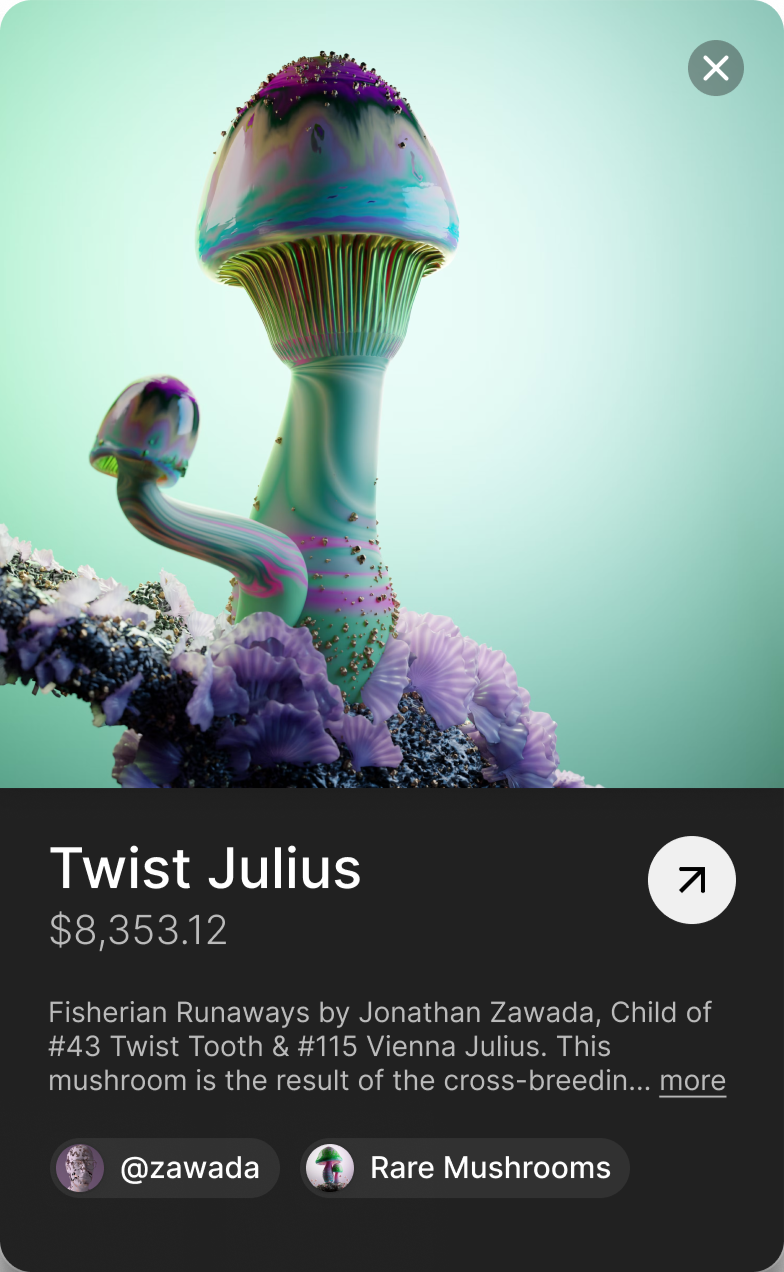
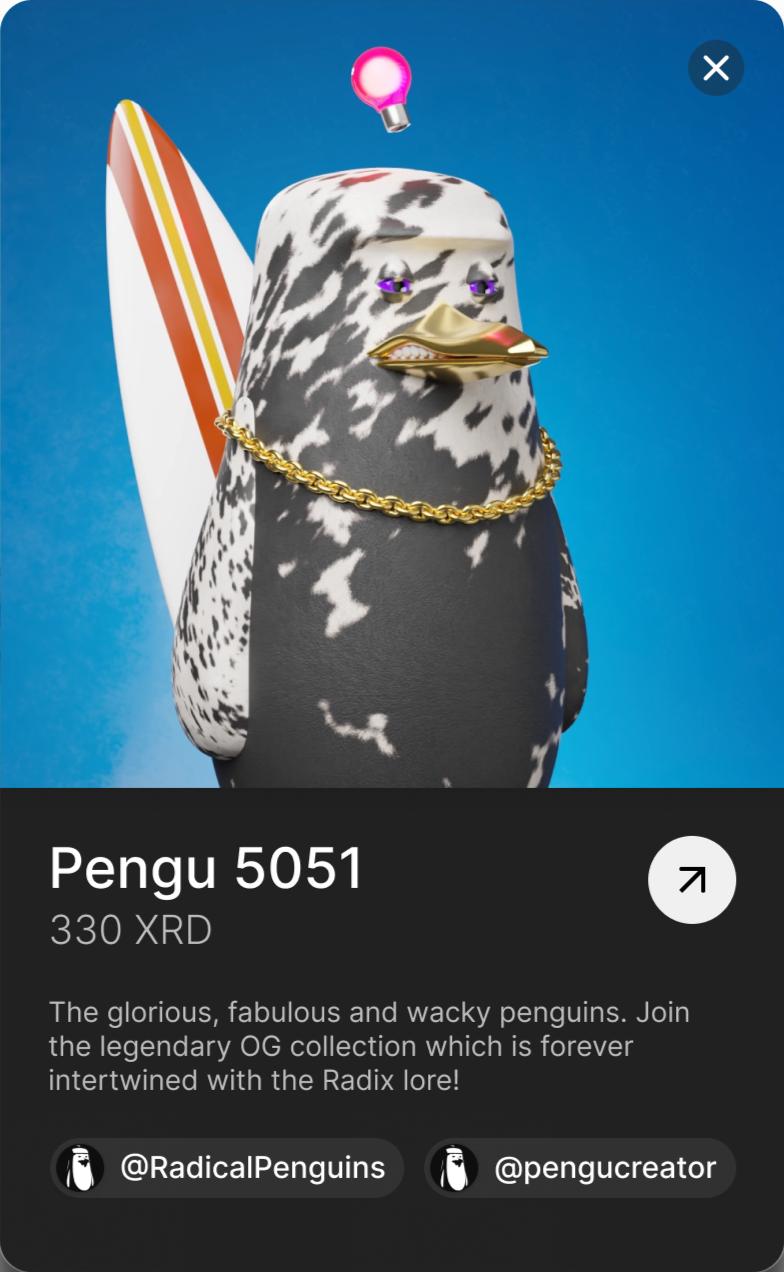
style: added nft images for website

diff --git a/apps/website/src/components/layouts/index-page/components/landing-page/index.tsx b/apps/website/src/components/layouts/index-page/components/landing-page/index.tsx
@@ -389,18 +389,52 @@ export const LandingPage: React.FC = () => (
 							</Box>
 						</Box>
 						<Box className={styles.landingFeaturePointImgBlock}>
-							<Image
-								priority
-								src="/landing-page-2023/nft-01.png"
-								width={392}
-								height={636}
-								alt="Vanilla Extract logo"
-								className={clsx(
-									styles.landingHeroCalloutImg,
-									styles.landingHeroCalloutRoundedLargeImg,
-									styles.landingNftOneLarge,
-								)}
-							/>
+							<Box className={styles.landingNftSmallWrapperLarge}>
+								<Image
+									priority
+									src="/landing-page-2023/nft-small_01.png"
+									width={238}
+									height={238}
+									alt="Radix nft item"
+									className={clsx(
+										styles.landingHeroCalloutImg,
+										styles.landingHeroCalloutRoundedLargeImg,
+										styles.landingNftSmallOne,
+									)}
+								/>
+								<Image
+									priority
+									src="/landing-page-2023/nft-small_02.webp"
+									width={122}
+									height={122}
+									alt="Radix nft item"
+									className={clsx(
+										styles.landingHeroCalloutImg,
+										styles.landingHeroCalloutRoundedLargeImg,
+										styles.landingNftSmallTwo,
+									)}
+								/>
+								<Image
+									priority
+									src="/landing-page-2023/nft-small_03.png"
+									width={98}
+									height={98}
+									alt="Radix nft item"
+									className={clsx(
+										styles.landingHeroCalloutImg,
+										styles.landingHeroCalloutRoundedLargeImg,
+										styles.landingNftSmallThree,
+									)}
+								/>
+								<Image
+									priority
+									src="/landing-page-2023/nft-small_04.png"
+									width={58}
+									height={58}
+									alt="Radix nft item"
+									className={clsx(styles.landingHeroCalloutImg, styles.landingNftSmallFour)}
+								/>
+							</Box>
 							<Image
 								priority
 								src="/landing-page-2023/nft-02.png"
@@ -467,25 +501,11 @@ export const LandingPage: React.FC = () => (
 							<Text size="xxxxlarge" color="strong" weight="stronger">
 								Multi-wallet and asset insights
 							</Text>
-							<Text size="large" color="strong">
+							<Text size="large">
 								Don&apos;t compromise clarity while managing multiple wallets. Z3US Analytics offers an intuitive
 								platform for a comprehensive view of all your wallets, presented through dynamic dashboards and
 								insightful reports.
 							</Text>
-							<Box component="ul">
-								<Box component="li" color="colorNeutral">
-									<Check2Icon />
-									<Text>With Z3US&apos;s</Text>
-								</Box>
-								<Box component="li" color="colorNeutral">
-									<Check2Icon />
-									<Text>With Z3US&apos;s</Text>
-								</Box>
-								<Box component="li" color="colorNeutral">
-									<Check2Icon />
-									<Text>With Z3US&apos;s</Text>
-								</Box>
-							</Box>
 						</Box>
 					</Box>
 					{/* END: MULTI-WALLET */}

diff --git a/apps/website/src/components/layouts/index-page/components/landing-page/styles.css.ts b/apps/website/src/components/layouts/index-page/components/landing-page/styles.css.ts
@@ -381,15 +381,72 @@ export const landingAddressBookImgTwoLarge = style([
 	}),
 ])
 
-export const landingNftOneLarge = style([
-	sprinkles({}),
+export const landingNftSmallWrapperLarge = style([
+	sprinkles({
+		flexShrink: 0,
+		flexGrow: 0,
+	}),
 	{
 		// border: '1px solid red',
 	},
 	responsiveStyle({
 		mobile: { maxWidth: '100%', height: 'auto' },
-		tablet: { marginBottom: '118px' },
+		tablet: { height: '736px' },
 		// desktop: { width: '25%' },
+	}),
+])
+export const landingNftSmallOne = style([
+	sprinkles({
+		flexShrink: 0,
+		flexGrow: 0,
+	}),
+	{
+		// border: '1px solid red',
+	},
+	responsiveStyle({
+		mobile: { position: 'absolute', maxWidth: '100%', height: 'auto' },
+		tablet: { top: '0px', left: '0px' },
+	}),
+])
+
+export const landingNftSmallTwo = style([
+	sprinkles({
+		position: 'absolute',
+		flexShrink: 0,
+		flexGrow: 0,
+	}),
+	{
+		// border: '1px solid red',
+	},
+	responsiveStyle({
+		mobile: { position: 'absolute', maxWidth: '100%', height: 'auto' },
+		tablet: { top: '260px', left: '30px' },
+	}),
+])
+
+export const landingNftSmallThree = style([
+	sprinkles({
+		position: 'absolute',
+		flexShrink: 0,
+		flexGrow: 0,
+	}),
+	{},
+	responsiveStyle({
+		mobile: { position: 'absolute', maxWidth: '100%', height: 'auto' },
+		tablet: { top: '430px', left: '110px' },
+	}),
+])
+
+export const landingNftSmallFour = style([
+	sprinkles({
+		flexShrink: 0,
+		flexGrow: 0,
+		borderRadius: 'small',
+	}),
+	{},
+	responsiveStyle({
+		mobile: { position: 'absolute', maxWidth: '100%', height: 'auto' },
+		tablet: { top: '30px', left: '280px' },
 	}),
 ])
 
